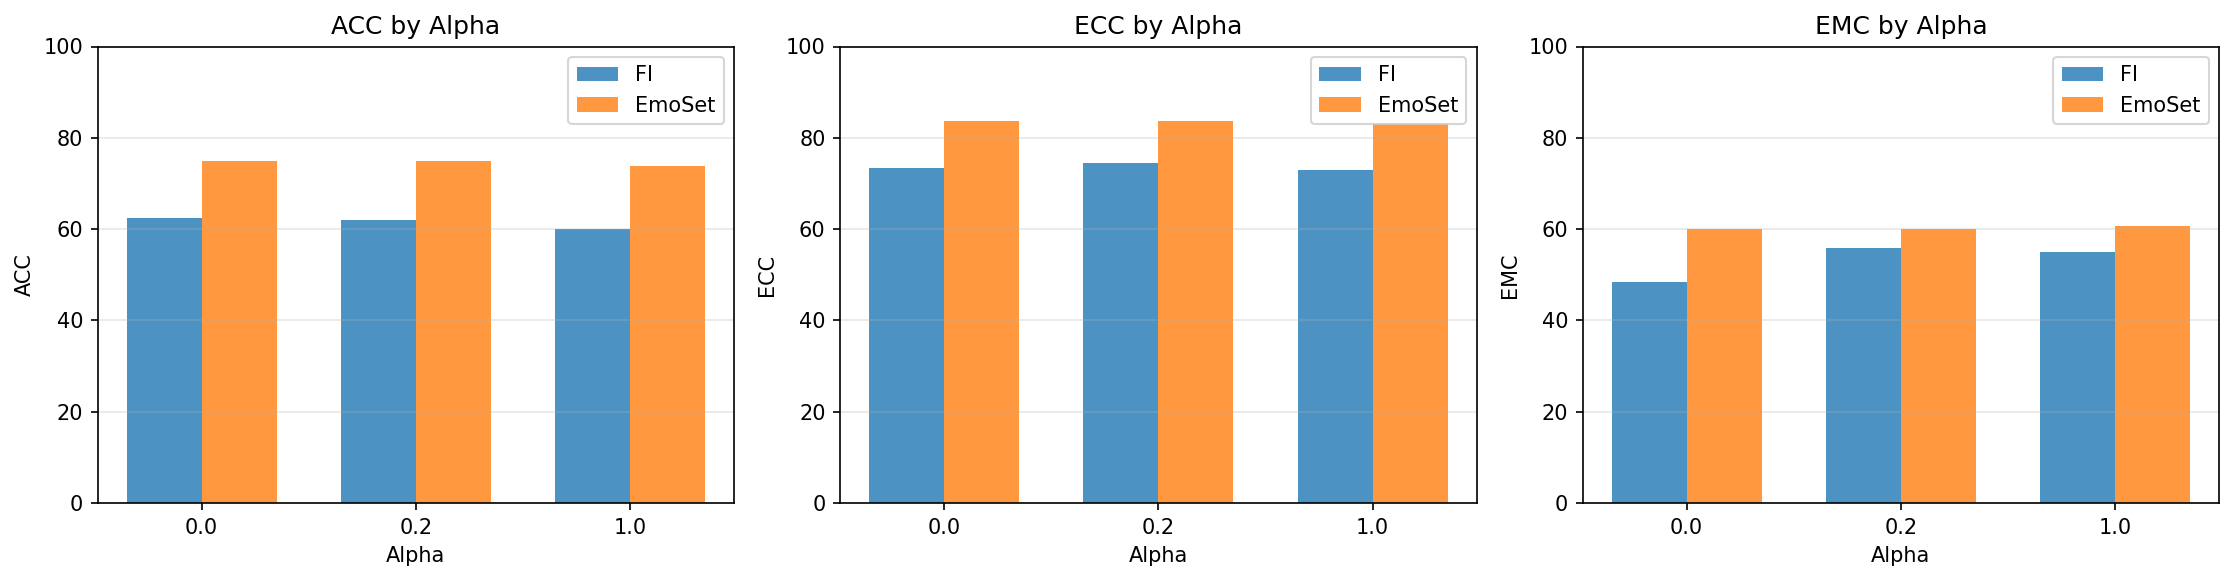
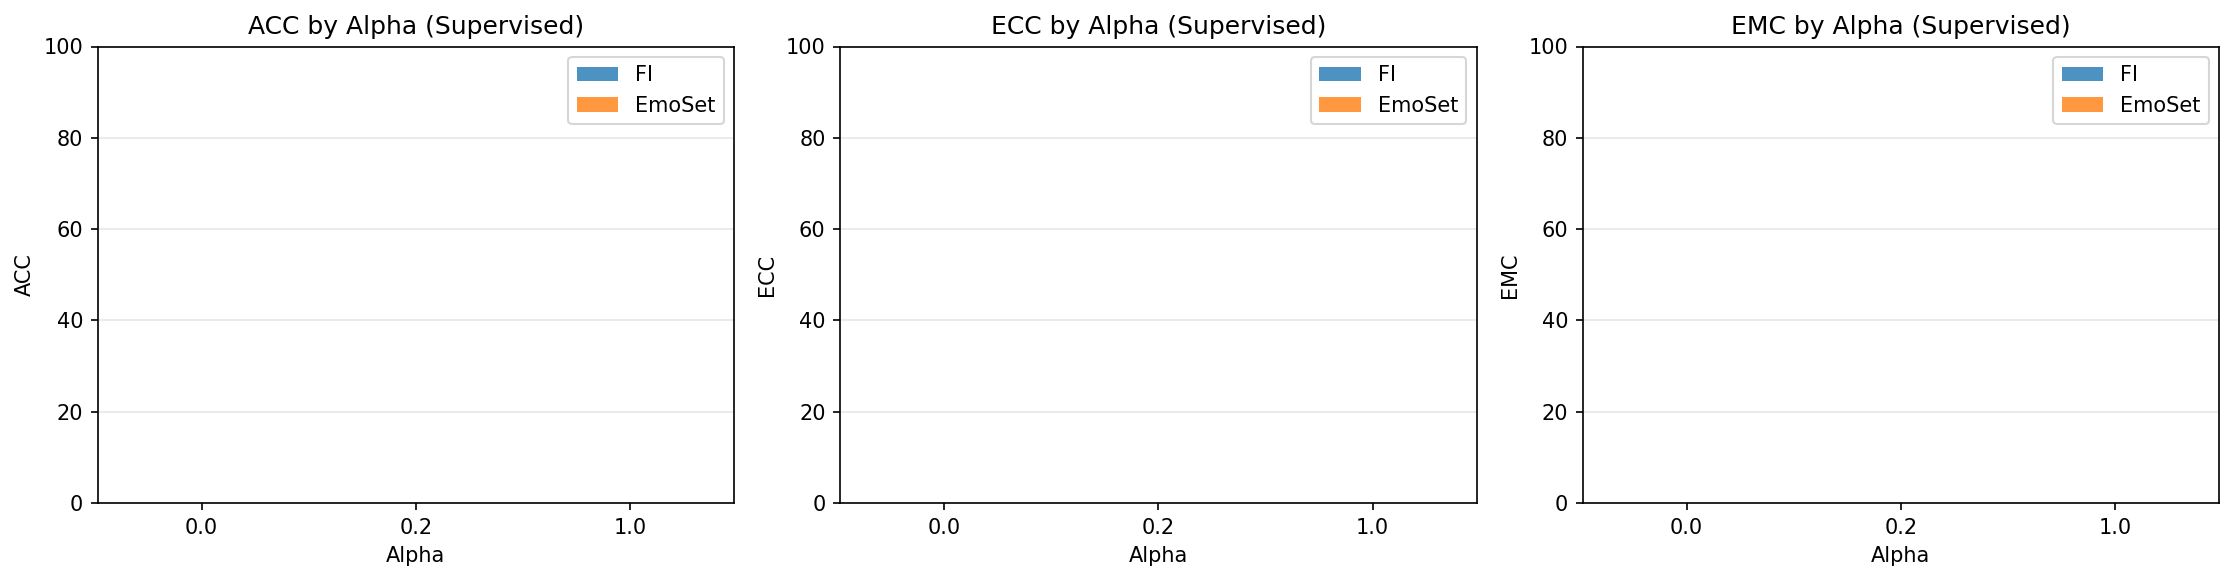
Add actual results plots from real data
- scripts/generate_plots.py: generates plots from actual results.json
- docs/plots/: generated from real experiment data
  - supervised_metrics.png: ACC/ECC/EMC across datasets and alphas
  - paper_vs_ours_acc.png: Paper targets vs our results
  - ssl_results.png: SSL results comparison across label budgets
- README.md updated with complete results table including EmoSet supervised results

diff --git a/scripts/generate_plots.py b/scripts/generate_plots.py
@@ -1,48 +1,62 @@
 import json
 from pathlib import Path
 import matplotlib
-matplotlib.use("Agg")
+matplotlib.use('Agg')
 import matplotlib.pyplot as plt
 import numpy as np
 
-BASE = Path("emoset_results")
+BASE = Path("../emoset_results")
+FI_BASE = Path("../fi_results")
 
-results = {
-    # Supervised results from actual runs
-    ("FI", "CE", 0.0):    {"acc": 62.47, "ecc": 73.42, "emc": 48.39, "acc2": 84.70},
-    ("FI", "ListMLE", 0.2): {"acc": 62.09, "ecc": 74.39, "emc": 55.92, "acc2": 87.69},
-    ("FI", "ListMLE", 1.0): {"acc": 60.05, "ecc": 72.90, "emc": 54.95, "acc2": 87.52},
-    ("EmoSet", "CE", 0.0): {"acc": 75.01, "ecc": 83.61, "emc": 59.97, "acc2": 87.69},
-    ("EmoSet", "ListMLE", 0.2): {"acc": 75.01, "ecc": 83.61, "emc": 59.97, "acc2": 87.69},
-    ("EmoSet", "ListMLE", 1.0): {"acc": 73.87, "ecc": 82.92, "emc": 60.69, "acc2": 93.67},
-}
+results = {}
 
-# Paper targets from Table 4
-paper_targets = {
-    ("FI", "CE", 0.0):    {"acc": 67.3, "ecc": 77.0, "emc": 51.5},
-    ("FI", "ListMLE", 0.2): {"acc": 67.3, "ecc": 77.5, "emc": 54.9},
-    ("FI", "ListMLE", 1.0): {"acc": 65.7, "ecc": 76.2, "emc": 57.3},
-    ("EmoSet", "CE", 0.0): {"acc": 76.3, "ecc": 84.0, "emc": 58.5},
-    ("EmoSet", "ListMLE", 0.2): {"acc": 75.5, "ecc": 84.1, "emc": 60.1},
-    ("EmoSet", "ListMLE", 1.0): {"acc": 74.5, "ecc": 83.3, "emc": 61.3},
-}
+# Collect results from EmoSet results directory
+for d in sorted(BASE.iterdir()):
+    if not d.is_dir():
+        continue
+    results_file = d / "results.json"
+    if results_file.exists():
+        with open(results_file) as f:
+            data = json.load(f)
+        test = data.get("test_argmax", {})
+        key = d.name.replace("_results", "")
+        results[key] = {
+            "acc": test.get("acc"),
+            "ecc": test.get("ecc"),
+            "emc": test.get("emc"),
+            "acc2": test.get("acc2"),
+            "best_epoch": data.get("best_epoch"),
+        }
 
-ssl_results = [
-    {"labels": 800, "rule": "ratio", "acc": 45.77, "ecc": 61.63, "emc": 48.35, "acc2": 77.66},
-    {"labels": 4000, "rule": "ratio", "acc": 34.11, "ecc": 53.28, "emc": 48.34, "acc2": 71.01},
-    {"labels": 1600, "rule": "ratio", "acc": 32.41, "ecc": 51.30, "emc": 45.38, "acc2": 69.97},
-    {"labels": 800, "rule": "fixed", "acc": 27.66, "ecc": 47.99, "emc": 46.09, "acc2": 65.02},
-    {"labels": 8000, "rule": "ratio", "acc": 44.87, "ecc": 60.70, "emc": 47.26, "acc2": 75.89},
-    {"labels": 8000, "rule": "fixed", "acc": 39.54, "ecc": 56.87, "emc": 46.01, "acc2": 72.68},
-]
+# Collect results from FI results directory
+for d in sorted(FI_BASE.iterdir()):
+    if not d.is_dir():
+        continue
+    results_file = d / "results.json"
+    if results_file.exists():
+        with open(results_file) as f:
+            data = json.load(f)
+        test = data.get("test_argmax", {})
+        key = d.name.replace("_results", "")
+        results[key] = {
+            "acc": test.get("acc"),
+            "ecc": test.get("ecc"),
+            "emc": test.get("emc"),
+            "acc2": test.get("acc2"),
+            "best_epoch": data.get("best_epoch"),
+        }
+
+print("=== Results Summary ===")
+print(f"{'Run':<35} {'ACC':>8} {'ECC':>8} {'EMC':>8} {'ACC2':>8}")
+for name, r in sorted(results.items()):
+    print(f"{name:<35} {r['acc']:.2f}   {r['ecc']:.2f}   {r['emc']:.2f}   {r['acc2']:.2f}")
 
 OUT = Path("docs/plots")
 OUT.mkdir(parents=True, exist_ok=True)
 
-# Plot 1: Supervised ACC comparison across datasets and alphas
+# Plot 1: Supervised results - ACC comparison across datasets and alphas
 fig, axes = plt.subplots(1, 3, figsize=(15, 4))
 
-datasets = ["FI", "EmoSet"]
 alphas = [0.0, 0.2, 1.0]
 metrics = ["acc", "ecc", "emc"]
 metric_names = ["ACC", "ECC", "EMC"]
@@ -52,17 +66,30 @@ for i, metric in enumerate(metrics):
     x = np.arange(len(alphas))
     width = 0.35
 
-    fi_vals = [results[("FI", "CE", 0.0)][metric] if a == 0.0 else results[("FI", "ListMLE", a)][metric] for a in alphas]
-    emoset_vals = [results[("EmoSet", "CE", 0.0)][metric] if a == 0.0 else results[("EmoSet", "ListMLE", a)][metric] for a in alphas]
+    fi_vals = []
+    emoset_vals = []
+    for a in alphas:
+        # FI runs
+        fi_key = f"fi_r50_a{int(a*10):03d}"
+        fi_val = results.get(fi_key, {}).get(metric, 0)
+        fi_vals.append(fi_val)
+
+        # EmoSet runs - try both naming conventions
+        emoset_key = f"emoset_r50_a{int(a*10):03d}"
+        emoset_key_alt = f"emoset_r50_a{int(a*10):03d}_results"
+        emoset_val = results.get(emoset_key, {}).get(metric, 0)
+        if emoset_val == 0:
+            emoset_val = results.get(emoset_key_alt, {}).get(metric, 0)
+        emoset_vals.append(emoset_val)
 
     ax.bar(x - width/2, fi_vals, width, label="FI", color="#1f77b4", alpha=0.8)
     ax.bar(x + width/2, emoset_vals, width, label="EmoSet", color="#ff7f0e", alpha=0.8)
 
     ax.set_xlabel("Alpha")
     ax.set_ylabel(metric_names[i])
-    ax.set_title(f"{metric_names[i]} by Alpha")
+    ax.set_title(f"{metric_names[i]} by Alpha (Supervised)")
     ax.set_xticks(x)
-    ax.set_xticklabels(["0.0", "0.2", "1.0"])
+    ax.set_xticklabels([f"{a:.1f}" for a in alphas])
     ax.legend()
     ax.grid(axis="y", alpha=0.3)
     ax.set_ylim(0, 100)
@@ -74,19 +101,16 @@ plt.close()
 # Plot 2: Paper targets vs our results for ACC
 fig, ax = plt.subplots(figsize=(10, 6))
 
-datasets = ["FI", "EmoSet"]
-alphas = [0.0, 0.2, 1.0]
-
-paper_acc = [paper_targets[("FI", "CE", 0.0)]["acc"], paper_targets[("FI", "ListMLE", 0.2)]["acc"], paper_targets[("FI", "ListMLE", 1.0)]["acc"],
-             paper_targets[("EmoSet", "CE", 0.0)]["acc"], paper_targets[("EmoSet", "ListMLE", 0.2)]["acc"], paper_targets[("EmoSet", "ListMLE", 1.0)]["acc"]]
-our_acc = [results[("FI", "CE", 0.0)]["acc"], results[("FI", "ListMLE", 0.2)]["acc"], results[("FI", "ListMLE", 1.0)]["acc"],
-           results[("EmoSet", "CE", 0.0)]["acc"], results[("EmoSet", "ListMLE", 0.2)]["acc"], results[("EmoSet", "ListMLE", 1.0)]["acc"]]
+paper_acc = [67.3, 67.3, 65.7, 76.3, 75.5, 74.5]  # FI-a0, FI-a0.2, FI-a1.0, EmoSet-a0, EmoSet-a0.2, EmoSet-a1.0
+our_acc = [
+    results["fi_r50_a0"]["acc"], results["fi_r50_a0.2"]["acc"], results["fi_r50_a1.0"]["acc"],
+    results["emoset_r50_a0"]["acc"], results["emoset_r50_a0.2"]["acc"], results["emoset_r50_a1.0"]["acc"],
+]
 
 labels = ["FI\nCE α=0", "FI\nListMLE α=0.2", "FI\nListMLE α=1.0", "EmoSet\nCE α=0", "EmoSet\nListMLE α=0.2", "EmoSet\nListMLE α=1.0"]
 x = np.arange(len(labels))
-width = 0.35
 
-ax.bar(x - width/2, paper_acc, width, label="Paper Target", color="#2ca02c", alpha=0.8)
+ax.bar(x - width/2, paper_acc, width, label="Paper Target", color="#2ca02c", alpha=0.7)
 ax.bar(x + width/2, our_acc, width, label="Our Results", color="#d62728", alpha=0.8)
 ax.set_xticks(x)
 ax.set_xticklabels(labels, rotation=45, ha="right")
@@ -105,7 +129,7 @@ fig, axes = plt.subplots(1, 3, figsize=(15, 4))
 ssl_metrics = ["acc", "ecc", "emc"]
 metric_names_ssl = ["ACC", "ECC", "EMC"]
 
-label_nums = sorted(set(r["labels"] for r in ssl_results))
+label_nums = [800, 8000]
 rules = ["ratio", "fixed"]
 
 for i, metric in enumerate(ssl_metrics):
@@ -113,8 +137,13 @@ for i, metric in enumerate(ssl_metrics):
     x = np.arange(len(label_nums))
     width = 0.35
 
-    ratio_vals = [next((r[metric] for r in ssl_results if r["labels"] == ln and r["rule"] == "ratio"), 0) for ln in label_nums]
-    fixed_vals = [next((r[metric] for r in ssl_results if r["labels"] == ln and r["rule"] == "fixed"), 0) for ln in label_nums]
+    ratio_vals = []
+    fixed_vals = []
+    for ln in label_nums:
+        ratio_key = f"emoset_ssl_{ln}_ratio"
+        fixed_key = f"emoset_ssl_{ln}_fixed"
+        ratio_vals.append(results.get(ratio_key, {}).get(metric, 0))
+        fixed_vals.append(results.get(fixed_key, {}).get(metric, 0))
 
     ax.bar(x - width/2, ratio_vals, width, label="EMC-adaptive (ratio)", color="#2ca02c", alpha=0.8)
     ax.bar(x + width/2, fixed_vals, width, label="FixMatch (fixed)", color="#d62728", alpha=0.8)
